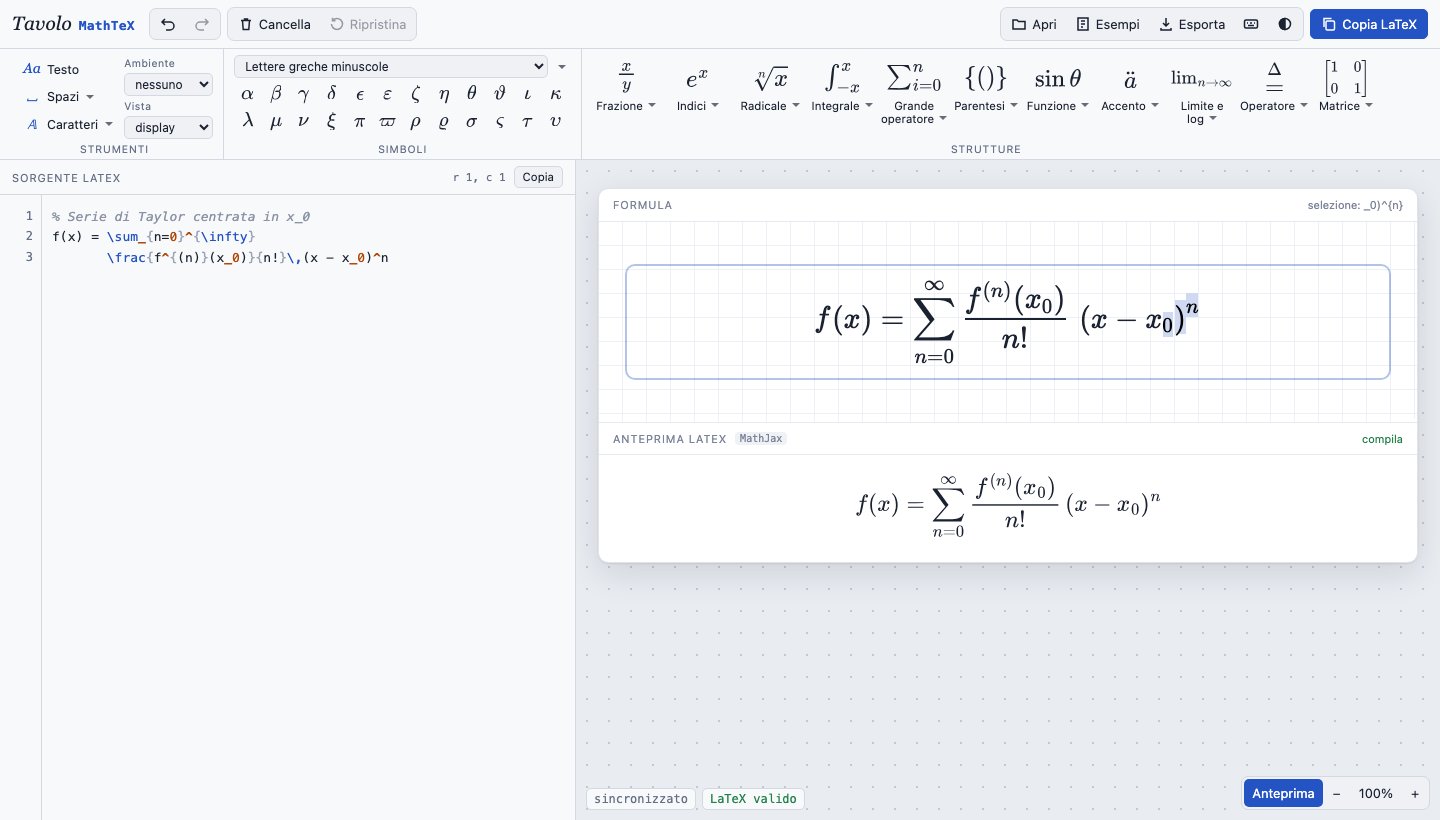
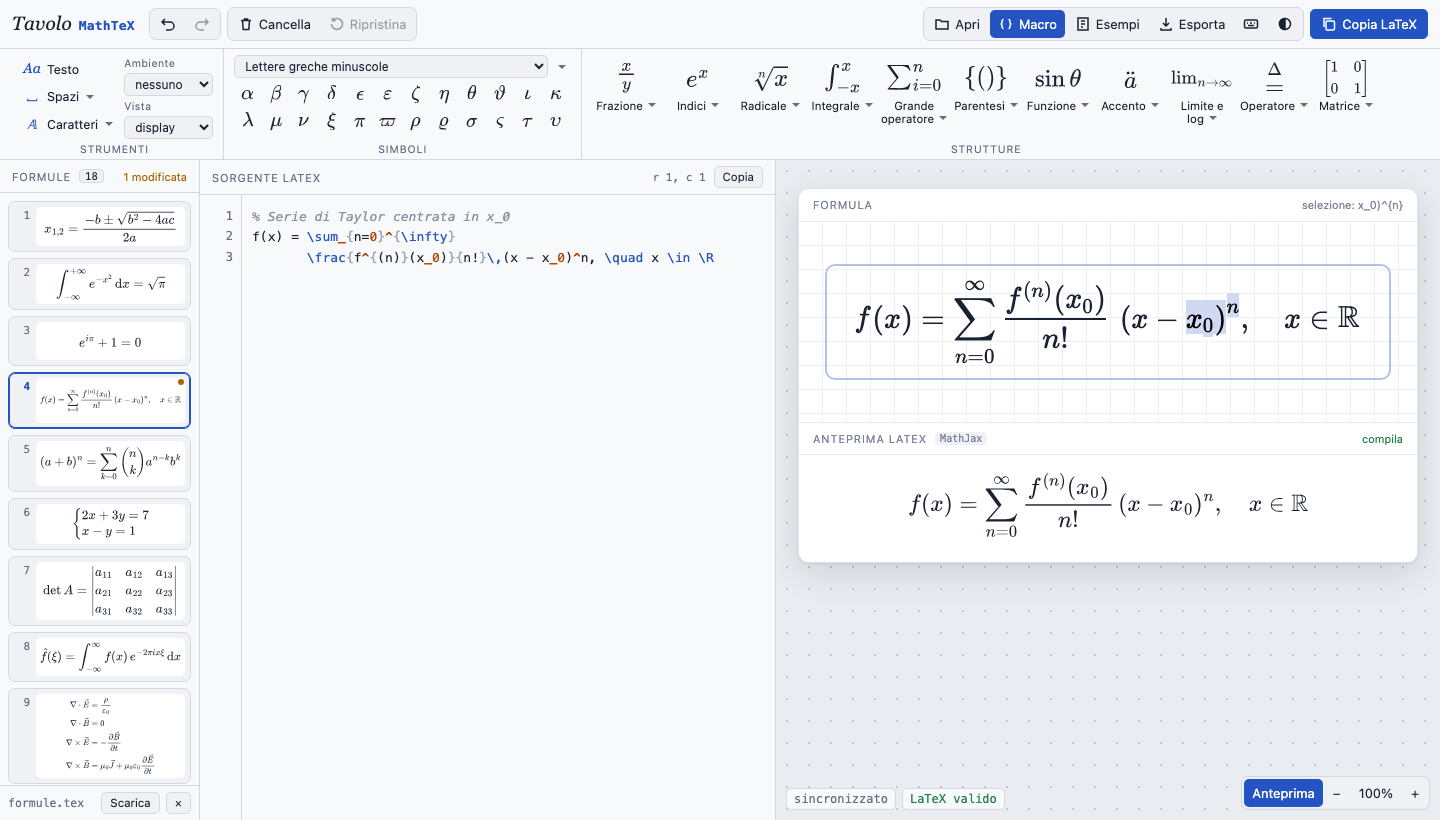
README aggiornato: documenti interi, macro, interfaccia, architettura, prove e scorciatoie; nuova immagine

diff --git a/tests/readme_shot.py b/tests/readme_shot.py
@@ -1,12 +1,19 @@
-import asyncio, sys
+"""Immagine del README: il file di esempi aperto come documento, con una macro e una selezione nella formula.
+Uso: python readme_shot.py ../docs/anteprima.png"""
+import asyncio, sys, pathlib
 from playwright.async_api import async_playwright
-from harness import open_app
+from harness import open_app, ROOT
 async def main():
     async with async_playwright() as p:
         b, pg, errors = await open_app(p, width=1440, height=820)
-        await pg.evaluate("t=>setSource(t)", "% Serie di Taylor centrata in x_0\nf(x) = \\sum_{n=0}^{\\infty}\n       \\frac{f^{(n)}(x_0)}{n!}\\,(x - x_0)^n")
-        await pg.wait_for_timeout(900); await pg.click('#mf'); await pg.evaluate("()=>{ const m=MF.el; m.position=m.lastOffset; for (let k=0;k<7;k++) m.executeCommand('extendSelectionBackward'); }")
-        await pg.wait_for_timeout(500)
+        doc = (ROOT / 'esempi' / 'formule.tex').read_text()
+        doc = doc.replace('\\usepackage{amsmath,amssymb}', '\\usepackage{amsmath,amssymb}\n\\newcommand{\\R}{\\mathbb{R}}', 1)
+        await pg.evaluate("t=>loadText(t,'formule.tex')", doc); await pg.wait_for_timeout(1200)
+        await pg.evaluate("Formulas.select(3)")
+        await pg.evaluate("t=>setSource(t)", "% Serie di Taylor centrata in x_0\nf(x) = \\sum_{n=0}^{\\infty}\n       \\frac{f^{(n)}(x_0)}{n!}\\,(x - x_0)^n, \\quad x \\in \\R")
+        await pg.wait_for_timeout(900); await pg.click('#mf')
+        await pg.evaluate("()=>{ const m=MF.el; m.position=m.lastOffset; for (let k=0;k<6;k++) m.executeCommand('moveToPreviousChar'); for (let k=0;k<7;k++) m.executeCommand('extendSelectionBackward'); }")
+        await pg.wait_for_timeout(600)
         await pg.screenshot(path=sys.argv[1])
         print(errors); await b.close()
 asyncio.run(main())

diff --git a/README.md b/README.md
@@ -5,7 +5,7 @@
 [![LaTeX](https://img.shields.io/badge/LaTeX-amsmath%20%7C%20amssymb-blue)](#funzionalità)
 [![Licenza](https://img.shields.io/badge/license-GPL--3.0-blue.svg)](#licenza)
 
-![Anteprima di Tavolo MathTeX](docs/anteprima.png)
+![Anteprima di Tavolo MathTeX: il file degli esempi aperto come documento, con la lista delle formule, il codice e la formula sincronizzati](docs/anteprima.png)
 
 ---
 
@@ -19,9 +19,10 @@ Tavolo MathTeX è un **editor visuale di equazioni matematiche in LaTeX** che fu
   * Formula modificabile con il cursore, basata su [MathLive](https://cortexjs.io/mathlive/)
   * Sincronizzazione bidirezionale che **riscrive solo la parte cambiata** del sorgente
   * Barra multifunzione con strutture e simboli organizzati come nell'editor di equazioni di Word
+  * **Documenti interi**: lista delle formule di un file `.tex`, ciascuna modificabile, e salvataggio del file aggiornato
+  * **Macro personali** (`\newcommand`, `\DeclareMathOperator`, …) lette dal preambolo e modificabili nella formula
   * Anteprima e verifica indipendente con MathJax
-  * Apertura di documenti `.tex` interi: lista delle formule, macro personali lette dal preambolo, salvataggio del file aggiornato
-  * Esempi `.tex` compilabili con pdfLaTeX e test automatici nel browser
+  * Esempi `.tex` compilabili con pdfLaTeX e prove automatiche nel browser
 
 ---
 
@@ -34,6 +35,8 @@ Scrivere una formula in LaTeX significa ricordare comandi, contare graffe e rico
 - la modifica visuale **non riscrive l'intera formula**: commenti, a capo, spazi e grafia del sorgente restano dove sono, e cambia solo il tratto toccato
 - il risultato è **LaTeX standard** (amsmath e amssymb), pronto da incollare in articoli, tesi e appunti
 
+L'editor non si ferma alla singola formula. Aprendo una tesi o un articolo, **tutte le formule in display compaiono in una lista laterale**: si sceglie quella da modificare, le modifiche tornano nel punto giusto del file, e alla fine si scarica il documento intero. Le **macro del preambolo** (`\R`, `\norm{v}`, `\sen x`) vengono riconosciute: nella formula si vedono disegnate, nel sorgente restano scritte come le ha scritte l'autore.
+
 > La formula a destra è disegnata da MathLive; l'anteprima sotto è di MathJax e fa da controllo: se compila lì, il codice è LaTeX valido. Per la versione finale conviene comunque compilare con pdfLaTeX.
 
 ---
@@ -41,49 +44,62 @@ Scrivere una formula in LaTeX significa ricordare comandi, contare graffe e rico
 ## Funzionalità
 
 **Barra multifunzione** (organizzazione alla Word, aspetto Tavolo)
-- *Strumenti*: testo normale, spazi matematici, stili di carattere (`\mathbb`, `\mathcal`, `\mathfrak`, `\mathrm`, `\mathbf`, …), delimitatori della formula (`$…$`, `\[…\]`, `equation`, `align*`, …), vista display o in linea
-- *Simboli*: lettere greche, operatori, relazioni, frecce, logica, insiemi e simboli vari, con galleria completa
+- *Strumenti*: testo normale, spazi matematici, stili di carattere (`\mathbb`, `\mathcal`, `\mathfrak`, `\mathrm`, `\mathbf`, `\mathsf`, `\mathtt`, …), delimitatori della formula (nessuno, `$…$`, `\[…\]`, `equation`, `equation*`, `align*`, `gather*`), vista display o in linea
+- *Simboli*: lettere greche, operatori, relazioni, frecce, logica, insiemi e simboli vari, con galleria completa della categoria
 - *Strutture*, ciascuna con una galleria di modelli disegnati:
   frazioni (in pila, lineari, continue, annidate) · indici (apici, pedici, a sinistra) · radicali · integrali (definiti, multipli, di linea, differenziali) · grandi operatori (sommatorie, produttorie, unioni, intersezioni) · parentesi (fisse, adattive, con separatore, binomiali, casi) · funzioni (trigonometriche, logaritmi, derivate) · accenti e annotazioni (vettori, cappelli, graffe, `\overset`, `\boxed`) · limiti · operatori con frecce estensibili · matrici (vuote, con parentesi, determinanti, sistemi, array e **matrice di dimensione a scelta**)
 - ogni modello ha caselle da riempire: si passa dall'una all'altra con **Tab**; se c'è una selezione, la struttura la avvolge
 - i menu agiscono dove si trova il cursore: nella formula, oppure **direttamente nel codice** se l'ultimo pannello usato è il sorgente
 
+**Editor del codice**
+- evidenziazione di comandi, ambienti, numeri, indici, graffe e commenti, con numeri di riga
+- **suggerimenti dei comandi** mentre si scrive `\` + lettere (Tab o Invio per completare), comprese le macro personali
+- Tab inserisce due spazi, Invio mantiene il rientro della riga
+- il tratto riscritto da una modifica visuale si illumina per un istante
+
 **Sorgente sempre disponibile**
-- copia del LaTeX con un pulsante (anche come `$…$`, `\[…\]` o `equation`) e con **Ctrl+Maiusc+C**
-- esportazione come documento `.tex` con i pacchetti necessari, **SVG**, **PNG** e **MathML**
+- copia del LaTeX con un pulsante e con **Ctrl+Maiusc+C**; dalla finestra *Esporta* anche come `$…$`, `\[…\]`, `equation` o sorgente così com'è
+- esportazione come documento `.tex` con i pacchetti necessari (aggiunge `mathtools`, `cancel`, `xcolor`, `bm` quando servono) e le macro nel preambolo, come **SVG**, **PNG** e **MathML**; con un documento aperto, anche il file intero
 - annulla e ripeti con **una sola cronologia** per codice e formula; cancella e ripristina
+- 18 **esempi** pronti (formula risolutiva, Maxwell con `align*`, sistemi, matrici, Schrödinger con `equation`, …), alcuni con commenti e a capo da conservare
 
 **Documenti interi**
 - aprendo un file `.tex` (pulsante *Apri* o trascinandolo sulla pagina), o **incollando nel codice più formule insieme**, le formule in display (`\[…\]`, `$$…$$`, `equation`, `align`, `gather`, `multline`, `flalign`, `displaymath`, con o senza asterisco) compaiono in una **lista laterale** con l'anteprima; quelle commentate restano fuori
 - se nel codice di una formula ne compaiono più d'una (LaTeX non le accetta annidate), un messaggio lo segnala e con un clic le divide in voci separate
 - un clic su una formula la porta nell'editor; **Alt+PagSu** e **Alt+PagGiù** passano alla precedente e alla successiva
-- ogni modifica torna nel documento, nel punto da cui viene la formula, senza toccare il resto del file; le formule cambiate sono segnate nella lista
+- ogni modifica torna nel documento, nel punto da cui viene la formula, senza toccare il resto del file; le formule cambiate sono segnate con un pallino e contate in alto
 - ogni formula ha la sua cronologia di annulla e ripeti
-- *Scarica* (o **Ctrl+S**) salva il file intero con le formule aggiornate; il documento aperto resta disponibile anche dopo aver ricaricato la pagina
+- *Scarica* (o **Ctrl+S**) salva il file intero con le formule aggiornate; chiudendo un documento con modifiche non scaricate, l'editor chiede se scaricarlo prima
 
 **Macro personali**
-- le definizioni del preambolo (`\newcommand`, `\renewcommand`, `\providecommand`, `\DeclareMathOperator`, `\def`) vengono lette all'apertura del file e passate a MathLive: `\R`, `\norm{v}`, `\sen x` si vedono disegnati nella formula e restano scritti così nel sorgente
-- la finestra *Macro* mostra le definizioni attive e permette di scriverle a mano, anche senza aprire un file
-- valgono anche per l'anteprima MathJax, per i suggerimenti del codice e per le esportazioni: il documento `.tex` esportato le riporta nel preambolo
+- le definizioni (`\newcommand`, `\renewcommand`, `\providecommand`, `\DeclareMathOperator` anche con asterisco, `\def` con argomenti `#1…#9`) vengono lette all'apertura del file e passate a MathLive: `\R`, `\norm{v}`, `\sen x` si vedono disegnati nella formula e restano scritti così nel sorgente
+- la finestra *Macro* mostra le definizioni riconosciute e permette di scriverle a mano, anche senza aprire un file; il pulsante resta evidenziato finché ce n'è almeno una attiva
+- valgono anche per l'anteprima MathJax, per le miniature della lista, per i suggerimenti del codice e per le esportazioni
 
 **Errori senza blocchi**
 - graffe non chiuse, `\begin`/`\end` e `\left`/`\right` spaiati, doppi esponenti: sottolineati nel codice, con la riga segnata
 - comandi sconosciuti a LaTeX o non modificabili nella formula: segnalati, ma il resto continua a funzionare
+- errori di MathJax tradotti in italiano e riportati sul comando che li causa
 - clic su un messaggio per andare al punto del sorgente
+
+**Interfaccia**
+- tema chiaro e scuro, divisore tra le ante trascinabile, zoom della formula, anteprima MathJax che si può nascondere
+- su schermi stretti le ante si impilano: formula in alto, codice sotto, lista delle formule in una striscia scorrevole
+- il browser ricorda la formula, il documento aperto, le macro, il tema, lo zoom e le altre preferenze tra una visita e l'altra (in `localStorage`, solo su quel browser)
 
 ---
 
 ## Stack Tecnologico
 
 - **Linguaggio**: JavaScript (ES2020), senza framework né passaggi di compilazione, come Tavolo TikZ
-- **Formula modificabile**: [MathLive](https://cortexjs.io/mathlive/) 0.111 (licenza MIT, caricato da CDN)
-- **Anteprima e verifica LaTeX**: [MathJax 3](https://www.mathjax.org/) (caricato da CDN)
+- **Formula modificabile**: [MathLive](https://cortexjs.io/mathlive/) 0.111.1 (licenza MIT, caricato da CDN)
+- **Anteprima e verifica LaTeX**: [MathJax](https://www.mathjax.org/) 3.2.2 (caricato da CDN)
 - **Interfaccia**: HTML e CSS ripresi da Tavolo TikZ, con temi chiaro e scuro
 - **Pubblicazione**: sito statico, adatto a GitHub Pages
 
 ### Perché MathLive
 
-Un editor di formule con cursore, caselle e selezione strutturale è un progetto a sé. MathLive lo offre già, è mantenuto, funziona nel browser senza dipendenze e capisce i modelli con caselle (`\frac{#0}{#?}`). Tavolo MathTeX lo usa come **rappresentazione modificabile**, ma non come fonte di verità: la fonte di verità resta il testo del sorgente. Le alternative valutate (scrivere un editor strutturale da zero, oppure un `contenteditable` sopra l'output di MathJax) avrebbero richiesto un parser e un modello della formula propri, che è proprio ciò che si voleva evitare.
+Un editor di formule con cursore, caselle e selezione strutturale è un progetto a sé. MathLive lo offre già, è mantenuto, funziona nel browser senza dipendenze, capisce i modelli con caselle (`\frac{#0}{#?}`) e accetta macro definite dall'utente. Tavolo MathTeX lo usa come **rappresentazione modificabile**, ma non come fonte di verità: la fonte di verità resta il testo del sorgente. Le alternative valutate (scrivere un editor strutturale da zero, oppure un `contenteditable` sopra l'output di MathJax) avrebbero richiesto un parser e un modello della formula propri, che è proprio ciò che si voleva evitare.
 
 ---
 
@@ -92,21 +108,38 @@ Un editor di formule con cursore, caselle e selezione strutturale è un progetto
 Tre livelli distinti, sempre separati:
 
 1. **Sorgente** – il testo dell'utente, unica fonte di verità. Non viene mai riscritto per intero se non è indispensabile
-2. **Rappresentazione modificabile** – MathLive riceve il *corpo* della formula (i delimitatori come `\begin{align*}` restano nel sorgente e non vengono toccati)
+2. **Rappresentazione modificabile** – MathLive riceve il *corpo* della formula (i delimitatori come `\begin{align*}` restano nel sorgente e non vengono toccati; per `align*` e `gather*` la formula riceve un `aligned` o `gathered`)
 3. **Risultato renderizzato** – MathLive a schermo, MathJax come anteprima e controllo indipendente
 
-La sincronizzazione è a senso unico per evento, così non nascono cicli:
+### Sincronizzazione
+
+È a senso unico per evento, così non nascono cicli:
 
 - **codice → formula**: a ogni battitura il corpo viene passato a MathLive senza generare eventi
 - **formula → codice** (`js/03-sync.js`):
   1. si confrontano le serializzazioni di MathLive prima e dopo la modifica, per isolare i token cambiati
   2. i token del sorgente (senza spazi e commenti) vengono allineati a quelli di MathLive con una LCS: così si sa a quale tratto del sorgente corrisponde la modifica, anche se la grafia è diversa (`\frac12` e `\frac{1}{2}`, `x^{2}` e `x^2`)
-  3. si sostituisce solo quel tratto e **si verifica**: il nuovo sorgente, riletto da MathLive, deve dare esattamente la formula mostrata e non deve avere più errori di sintassi di prima. Se la verifica fallisce si prova un tratto più ampio (il gruppo che contiene la modifica) e, solo come ultima risorsa, si riscrive il corpo
+  3. si sostituisce solo quel tratto e **si verifica**: il nuovo sorgente, riletto da un secondo campo MathLive nascosto, deve dare esattamente la formula mostrata e non deve avere più errori di sintassi di prima. Se la verifica fallisce si prova un tratto più ampio (il gruppo che contiene la modifica) e, solo come ultima risorsa, si riscrive il corpo
   4. se MathLive produce uno stato che il suo stesso LaTeX non riproduce (per esempio due esponenti sullo stesso simbolo dopo una cancellazione), nel sorgente si scrive la forma valida e la formula viene riallineata, con il cursore nello stesso punto
+
+Quello che si scrive all'inizio della formula va prima del primo simbolo del corpo: a capo, rientro e commenti iniziali restano dove sono (`\begin{equation}` ⏎ `  kE=mc^2`, non `\begin{equation}k`).
 
 Il codice prodotto da MathLive passa da una piccola pulizia perché resti LaTeX standard: `\middle{|}` diventa `\middle|`, `^{\doubleprime}` diventa `''`, `\frac12` diventa `\frac{1}{2}`, e le scorciatoie di MathLive che userebbero comandi suoi (`\differentialD`, `\exponentialE`, …) sono sostituite con quelli standard.
 
 Le caselle vuote (`\placeholder{}` in MathLive) non finiscono mai nel sorgente (`js/02-latex.js`): un argomento vuoto si scrive `{}` (`\frac{}{}`, `x^{}`), una cella vuota di matrice o sistema `{}` e un indice vuoto `[]` (`\sqrt[]{}`), tutto LaTeX valido. Così le righe vuote di un sistema non spariscono alla rilettura e, quando la formula viene ricaricata dal codice, ogni argomento vuoto torna a mostrare la sua casella.
+
+### Documenti e macro
+
+`js/09-document.js` contiene due moduli:
+
+- **`Formulas`** divide il file in testo e formule: `gaps[k]` è il testo prima della formula `k`, `fs[k]` la formula. La formula scelta va nell'editor come un sorgente qualsiasi; ogni cambio torna in `fs[k]`, e il file si ricompone unendo le due liste. Il resto del documento non passa mai dall'editor, quindi non può essere alterato. Ogni voce conserva la propria cronologia, e il documento è salvato nel browser a ogni modifica
+- **`Macros`** legge le definizioni con `parseMacros` (`js/02-latex.js`) e le passa a MathLive con l'opzione `macros` e `expand: false`: così la serializzazione della formula riporta `\R` e non `\mathbb{R}`, e la riscrittura minima continua a funzionare. A MathJax le stesse definizioni arrivano come `\newcommand` davanti al testo da disegnare
+
+### Accorgimenti su MathLive
+
+- **Focus immediato**: dopo un clic, MathLive porta il focus sulla formula con un `setTimeout`; i tasti premuti nel frattempo finirebbero nel codice. Il ricevitore dei tasti di MathLive prende il focus già al `pointerdown`
+- **Ambienti annidati**: un `align`, `align*`, `displaymath` o `eqnarray` dentro il corpo trasforma la radice di MathLive in quell'ambiente, e la radice resta tale anche per i valori successivi. Alla formula arriva l'equivalente annidabile (`aligned`, `gathered`, `array`), mentre il sorgente resta invariato
+- **Rianalisi forzata**: MathLive ignora un valore uguale a quello che ha già; prima di ricaricare la formula dal codice il campo viene svuotato, così la formula riflette sempre il sorgente
 
 ---
 
@@ -119,10 +152,10 @@ tavolo-mathtex/
 │   └── style.css           # stile e temi, ripresi da Tavolo TikZ
 ├── js/
 │   ├── 01-core.js          # utilità, modali, tema, divisore, rendering MathJax
-│   ├── 02-latex.js         # token, delimitatori, evidenziazione, controlli, modelli
+│   ├── 02-latex.js         # token, delimitatori, macro, evidenziazione, controlli, modelli, caselle
 │   ├── 03-sync.js          # riscrittura minima del sorgente dalla formula
 │   ├── 04-editor.js        # editor del codice, cronologia, suggerimenti
-│   ├── 05-mathfield.js     # formula modificabile (MathLive)
+│   ├── 05-mathfield.js     # formula modificabile (MathLive) e campo di verifica
 │   ├── 06-catalog.js       # strutture e simboli della barra multifunzione
 │   ├── 07-ribbon.js        # barra multifunzione e gallerie
 │   ├── 08-preview.js       # verifica e anteprima MathJax, messaggi
@@ -130,15 +163,25 @@ tavolo-mathtex/
 │   └── 10-panel.js         # esportazione, esempi, apertura dei file, scorciatoie, avvio
 ├── esempi/
 │   └── formule.tex         # gli esempi dell'editor, compilabili con pdfLaTeX
-├── tests/                  # prove automatiche nel browser (Playwright)
+├── tests/
+│   ├── harness.py          # avvio dell'app in Chromium headless
+│   ├── test_ui.py          # scenari con mouse e tastiera
+│   ├── test_menus.py       # ogni voce dei menu
+│   ├── test_fuzz.py        # modifiche casuali sulla formula
+│   ├── test_pdflatex.py    # compilazione con pdfLaTeX
+│   └── readme_shot.py      # immagine del README
 ├── docs/
 │   └── anteprima.png       # immagine del README
 └── LICENSE
 ```
 
+I file in `js/` sono script classici caricati in ordine da `index.html`, senza moduli né bundler: ciascuno usa ciò che definiscono i precedenti.
+
 ---
 
 ## Avvio
+
+**Online**: [giozoc.github.io/tavolo-mathtex](https://giozoc.github.io/tavolo-mathtex/)
 
 **In locale**:
 
@@ -164,36 +207,64 @@ tavolo-mathtex/
 
 ## Prove automatiche
 
-Le prove usano Playwright con Chromium (`pip install playwright && playwright install chromium`) e si eseguono dalla cartella `tests`:
+Le prove usano Playwright con Chromium e si eseguono dalla cartella `tests`:
+
+```bash
+pip install playwright && playwright install chromium
+cd tests
+python test_ui.py          # facoltativo: percorso dello screenshot finale (predefinito ui.png)
+python test_menus.py
+python test_fuzz.py        # facoltativi: passi per formula e numero di semi casuali (predefiniti 40 e 3)
+python test_pdflatex.py    # richiede pdflatex nel PATH
+python readme_shot.py ../docs/anteprima.png
+```
 
 | Prova | Cosa controlla |
 |---|---|
-| `test_ui.py` | scenari reali con mouse e tastiera: frazione da menu e Tab tra le caselle, radice sulla selezione, esponente sostituito, modifiche che lasciano intatti commenti e a capo, annulla e ripeti, inserimento nel codice, errori, `align*`, matrice personalizzata, matrici a una colonna e sistemi (le righe vuote restano), caselle per gli argomenti vuoti scritti nel codice, delimitatori, esportazione, documenti interi (lista delle formule, modifiche riscritte nel file, cronologia per formula), macro del preambolo e scritte a mano, tasti premuti subito dopo il clic sulla formula, più formule incollate insieme |
+| `test_ui.py` | scenari reali con mouse e tastiera: frazione da menu e Tab tra le caselle, radice e stile sulla selezione, esponente sostituito, modifiche che lasciano intatti commenti e a capo, annulla e ripeti, inserimento nel codice, errori, `align*`, matrice personalizzata, matrici a una colonna e sistemi (le righe vuote restano), caselle per gli argomenti vuoti scritti nel codice, delimitatori, esportazione, documenti interi (lista, modifiche riscritte nel file, cronologia per formula, Alt+PagGiù), macro del preambolo e scritte a mano, tasti premuti subito dopo il clic, scrittura all'inizio di una formula con `\label`, più formule incollate insieme, `align*` annidato |
 | `test_menus.py` | ogni voce dei menu (oltre 400) inserita in una formula vuota: deve dare LaTeX che MathJax compila e MathLive rilegge senza errori |
 | `test_fuzz.py` | migliaia di modifiche casuali sulla formula, su formule semplici, annidate, con commenti e delimitatori: il sorgente deve sempre corrispondere alla formula, restare valido e cambiare solo dove serve |
 | `test_pdflatex.py` | compila con pdfLaTeX tutto ciò che l'editor produce (menu, esempi, formule modificate a caso) |
 
 Ultimo risultato: 58/58 scenari superati; 420 voci di menu valide; su circa 1400 modifiche casuali il 98% riscrive solo il tratto cambiato (in media il 3,2% del testo), con zero incoerenze tra codice e formula e zero sorgenti resi non validi; 446 formule su 446 compilano con pdfLaTeX.
 
-Senza rete, la variabile `LOCAL_LIBS` può puntare a una cartella `node_modules` con `mathlive` e `mathjax`.
+Le prove premono «seleziona tutto» con `ControlOrMeta+a`, che su macOS diventa Cmd+A: in MathLive, Ctrl+A su Mac porta il cursore a inizio riga. Senza rete, la variabile `LOCAL_LIBS` può puntare a una cartella `node_modules` con `mathlive` e `mathjax`.
 
 ---
 
 ## Scorciatoie
 
+Su Mac, Ctrl corrisponde a Cmd.
+
 | Tasto | Azione |
 |---|---|
-| Ctrl+Z / Ctrl+Y | Annulla / Ripeti (codice e formula condividono la cronologia) |
+| Ctrl+Z / Ctrl+Y (o Ctrl+Maiusc+Z) | Annulla / Ripeti (codice e formula condividono la cronologia; con un documento aperto, una per formula) |
 | Ctrl+Maiusc+C | Copia il codice LaTeX |
 | Ctrl+S | Scarica la formula come documento `.tex`; con un file aperto, il file intero con le formule aggiornate |
 | Alt+PagSu / Alt+PagGiù | Formula precedente / successiva del file aperto |
 | Alt+F · Alt+E · Alt+R · Alt+I · Alt+S | Frazione · Indici · Radicale · Integrale · Grande operatore |
 | Alt+P · Alt+U · Alt+A · Alt+L · Alt+O · Alt+M | Parentesi · Funzione · Accento · Limite · Operatore · Matrice |
 | Alt+T · Alt+G | Testo normale · Tutti i simboli |
-| Tab / Maiusc+Tab | Casella successiva / precedente nella formula |
-| `/` `^` `_` | Frazione, apice, pedice mentre si scrive nella formula |
-| `\` + comando + Invio | Scrive un comando LaTeX direttamente nella formula |
+| Esc | Chiude la galleria o la finestra aperta |
 | F1 | Elenco delle scorciatoie |
+
+**Nella formula**
+
+| Tasto | Azione |
+|---|---|
+| Tab / Maiusc+Tab | Casella successiva / precedente |
+| Frecce · Maiusc+frecce | Muove il cursore nella struttura · seleziona (poi una struttura dalla barra avvolge la selezione) |
+| `/` `^` `_` | Frazione, apice, pedice mentre si scrive |
+| `\` + comando + Invio | Scrive un comando LaTeX direttamente |
+| `sqrt` `int` `sum` `pi` `infty` | Scorciatoie testuali: diventano √, ∫, Σ, π, ∞ |
+
+**Nel codice**
+
+| Tasto | Azione |
+|---|---|
+| `\` + lettere | Suggerimenti dei comandi (frecce per scegliere, Tab o Invio per completare) |
+| Tab · Invio | Due spazi · a capo con lo stesso rientro |
+| Clic su un messaggio | Porta all'errore nel sorgente |
 
 ---
 
@@ -202,8 +273,10 @@ Senza rete, la variabile `LOCAL_LIBS` può puntare a una cartella `node_modules`
 - La lista di un documento comprende le formule in display; quelle in linea (`$…$`, `\(…\)`) restano nel testo del file.
 - Negli ambienti `align*` e `gather*` la formula viene mostrata come un unico `aligned`/`gathered`; `\label` e `\nonumber` restano nel sorgente ma non si modificano visivamente.
 - Le macro personali compaiono nella formula come un blocco unico: si spostano e si cancellano, ma i loro argomenti si cambiano nel codice. Una macro con argomento facoltativo (`\newcommand{\x}[2][0]{…}`) vale solo per l'anteprima MathJax.
+- Una macro tolta dalla finestra *Macro* resta nota a MathJax fino al ricaricamento della pagina: l'anteprima può ancora compilarla.
 - I comandi di pacchetti che MathLive non conosce, e che non sono definiti come macro, restano nel sorgente e vengono segnalati, ma nella formula appaiono come testo da non modificare.
 - Alcune grafie compatte di MathLive (`x^2` al posto di `x^{2}`) compaiono nelle parti scritte dalla formula; il resto del sorgente mantiene la grafia originale.
+- Formula, documento e macro sono conservati solo nel browser in uso: per non perdere il lavoro conviene scaricare il file.
 
 ---
 
